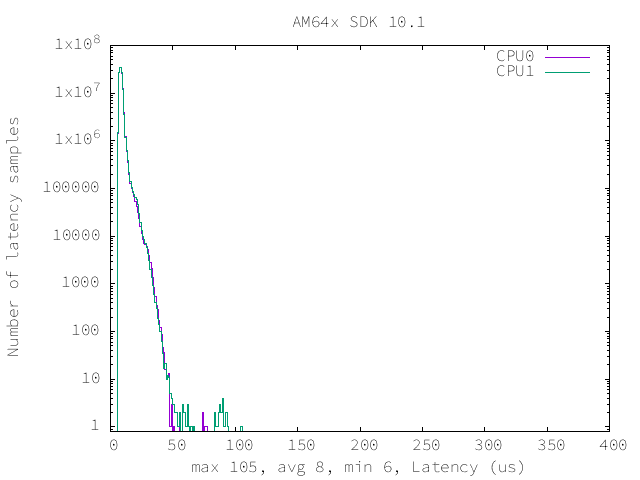
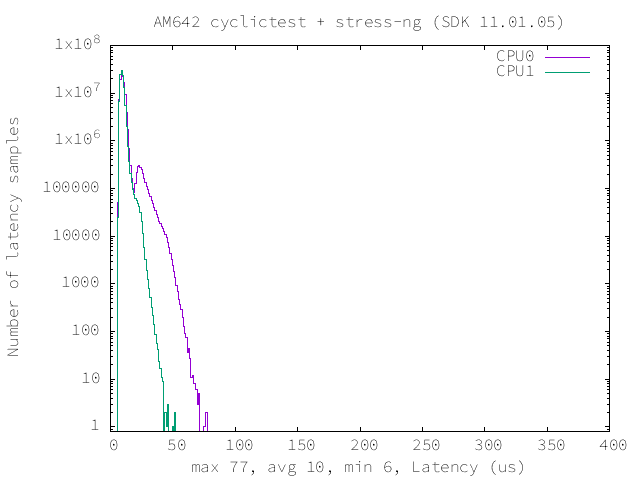
perf(linux): AM64X: Update PREEMPT_RT perf numbers for 11.1
Update the real-time Linux latency numbers for SDK 11.1

diff --git a/source/devices/AM64X/linux/RT_Linux_Performance_Guide.rst b/source/devices/AM64X/linux/RT_Linux_Performance_Guide.rst
@@ -58,14 +58,25 @@ Test commands used for running stress-ng and cyclictest together
    stress-ng --cpu-method=all -c 4 &
    cyclictest -m -Sp80 -D6h -h400 -i200 -M -q
 
-The latencies observed with this DK are summarized below:
+The following summarizes the latencies observed using the yocto based
+default SDK image:
+
+.. note::
+
+   A known issue in this SDK release is affecting this benchmark.
+   Using OP-TEE's PRNG drivers rather than the hardware accelerated TRNG
+   drivers restores the context switch latencies to the values you see
+   here.
+
+   More information on switching to the PRNG drivers can be found in the
+   Foundational Components section, here :ref:`building-optee-with-prng`
 
 .. csv-table::
    :header: "Latencies","CPU 0","CPU 1"
 
    "Minimum (usec)","6","6"
-   "Average (usec)","8","8"
-   "Maximum (usec)","77","105"
+   "Average (usec)","10","9"
+   "Maximum (usec)","77","52"
 
 .. image:: img/rt-cpu-method-all-latency-histogram.png
 
@@ -791,8 +802,8 @@ RP Message Inter-Processor Communication (IPC) Latency
 RP Message latency Performance
 ^^^^^^^^^^^^^^^^^^^^^^^^^^^^^^
 
-RP Message latency is the delay measured from sending a round trip echo message from 
-a Linux application to a remote processor and back. The following measurements use 
+RP Message latency is the delay measured from sending a round trip echo message from
+a Linux application to a remote processor and back. The following measurements use
 a RP message length of 1 byte and 490 bytes for comparison.
 
 The Linux user space application `rpmsg_char_benchmark <https://git.ti.com/cgit/rpmsg/ti-rpmsg-char/>`__ captures these latency values.
